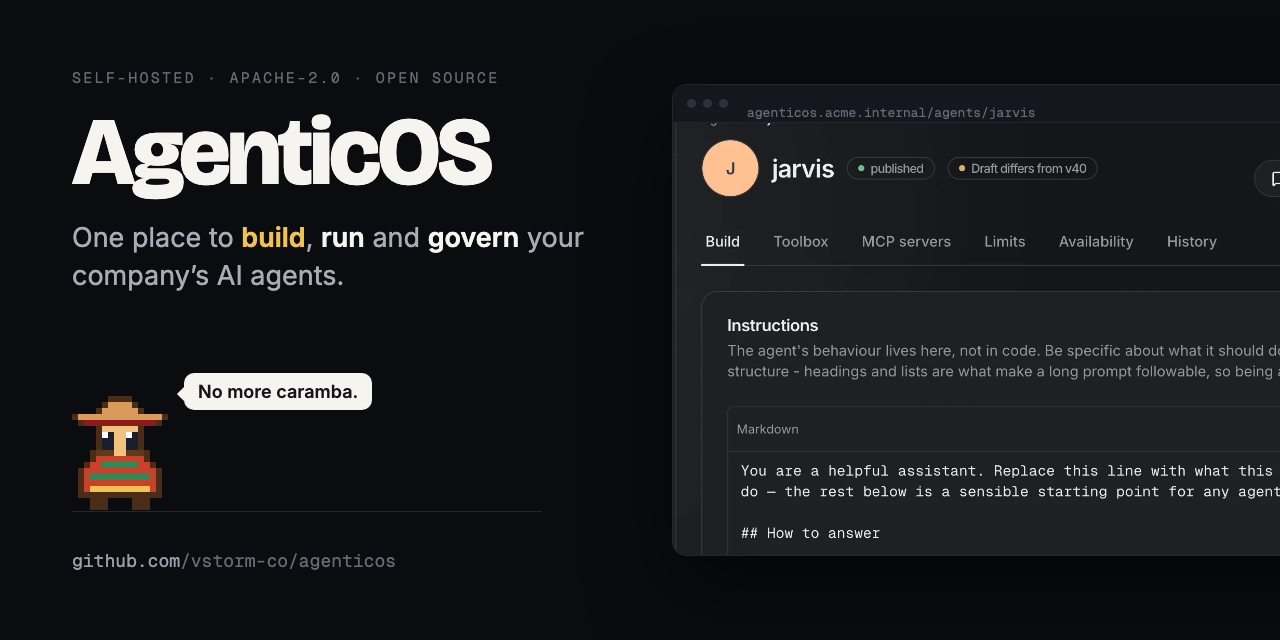
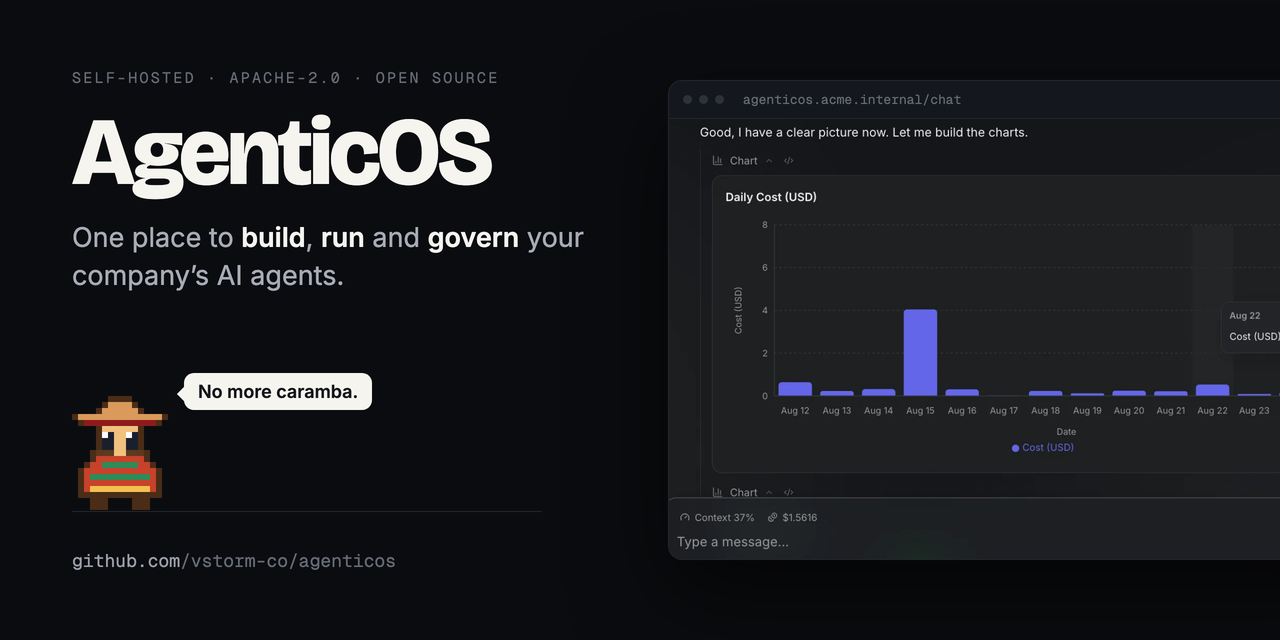
fix(docs): one screen on the social card, rendered at twice the size
Three screens cycling was two too many for something read in a second,
and the frames were captured at device ratio 1, where a 2906-pixel
screenshot scaled into half a card has no subpixels to average and the
app reads as grey noise.

One chat run now - the agent reads a file, runs Python and draws the
chart - captured at ratio 2 and resampled down, which is where the
legible text comes from. The crop starts on the sentence rather than
halfway through a tool step and ends under the composer, so the frame
has clean edges on both.

Still 309 KiB over 48 frames. No dither: error diffusion spreads a
changed pixel along its whole row, so the one region that moves rewrites
most of every frame - 1512 KiB against 309, for a difference a
256-colour palette is too wide to show.

Verified: the quantised frame compared side by side against the source
PNG; make lint and make docs-build green.

diff --git a/docs/assets/social-preview.html b/docs/assets/social-preview.html
@@ -8,15 +8,17 @@
   replaced was a finished PNG with nothing behind it: the mark changed, the card
   kept showing the old one, and no check noticed.
 
-  Three real screens, one per verb in the tagline - the builder for "build", a
-  chat run for "run", the spend ledger for "govern" - cut straight from
-  docs/assets/screens/dark/ rather than redrawn, so the card cannot show a
-  product this one is not. The verb lights up with the screen under it.
+  The screen is a real one, cut straight from docs/assets/screens/dark/ rather
+  than redrawn, so the card cannot show a product this one is not. One screen and
+  not three: a card people read in a second has time to say one thing.
 
-  Open it in a browser and it runs. Render it with:
+  Open it in a browser and Amigo paces. Render it with:
 
-    frames: load ?frame=N&of=48 for N in 0..47, screenshot 1280x640 at dpr 1
-    assemble: any GIF writer, 110ms a frame, one shared palette
+    frames: load ?frame=N&of=48 for N in 0..47, screenshot 1280x640 at dpr 2
+    downscale: each frame to 1280x640, Lanczos - which is where the legible text
+      comes from; rendering straight at dpr 1 gives the screenshot no subpixels
+      to average and the app reads as grey noise
+    assemble: any GIF writer, 110ms a frame, one palette shared by every frame
 
   Type comes from Google Fonts rather than the repository's woff2 files, because
   this is rendered once by hand and a relative path out of docs/ into frontend/
@@ -28,10 +30,8 @@
 <style>
   :root {
     --ink: #F5F4EF;
-    --muted: #8A909B;
     --dim: #656B76;
     --rule: #23262E;
-    --accent: #F2C14E;
     --travel: 156px;
     --scale: 6;
     --cycle: 5.28s;
@@ -76,27 +76,23 @@
     line-height: 1.38;
     color: #A7ACB6;
   }
-  /* The verb lights with the screen beside it, so the card says which third of
-     the sentence the picture is evidence for. */
-  .tagline b { color: var(--ink); font-weight: 600; transition: none; }
-  .v1 { animation: lit-1 var(--cycle) steps(1, end) infinite; }
-  .v2 { animation: lit-2 var(--cycle) steps(1, end) infinite; }
-  .v3 { animation: lit-3 var(--cycle) steps(1, end) infinite; }
+  .tagline b { color: var(--ink); font-weight: 600; }
 
-  /* The window. It runs off the right edge on purpose: a card that fits the
-     whole screen into a third of its width is showing a texture, not a product,
-     and cropping is what buys the scale back. */
+  /* The window runs off the right edge on purpose. A card that fits a whole
+     2906-pixel screen into half its width is showing a texture, not a product;
+     cropping past the sidebar is what buys the scale back, and the headings are
+     legible at the size that leaves. */
   .stage {
     position: absolute;
-    left: 672px;
-    top: 84px;
-    width: 720px;
-    height: 472px;
+    left: 668px;
+    top: 80px;
+    width: 700px;
+    height: 480px;
     border: 1px solid var(--rule);
     border-radius: 14px;
     background: #101318;
     overflow: hidden;
-    box-shadow: 0 32px 80px rgba(0, 0, 0, 0.55);
+    box-shadow: 0 34px 90px rgba(0, 0, 0, 0.6);
   }
   .chrome {
     height: 38px;
@@ -113,37 +109,14 @@
     font-family: "Geist Mono", ui-monospace, monospace;
     font-size: 13px;
     color: var(--dim);
-    position: relative;
   }
-  .route span { position: absolute; left: 0; top: 0; white-space: nowrap; opacity: 0; }
-  .route span:first-child { opacity: 1; }
 
   .viewport { position: relative; height: calc(100% - 38px); overflow: hidden; }
-  .shot {
-    position: absolute;
-    width: 1520px;
-    image-rendering: auto;
-    opacity: 0;
-  }
-  .shot:first-of-type { opacity: 1; }
-  /* One offset per screen: the sidebar is the least interesting 15% of every
-     one of them, so each is pulled left past it and down to its content. */
-  .s1 { left: -246px; top: -26px; }
-  .s2 { left: -465px; top: -372px; }
-  .s3 { left: -246px; top: -23px; }
+  /* One offset, measured against the source: the sidebar is the least
+     interesting 15% of the screen, and the run worth showing starts at the
+     sentence before the chart the agent drew. */
+  .shot { position: absolute; width: 1500px; left: -452px; top: -386px; }
 
-  .s1, .r1 { animation: show-1 var(--cycle) steps(1, end) infinite; }
-  .s2, .r2 { animation: show-2 var(--cycle) steps(1, end) infinite; }
-  .s3, .r3 { animation: show-3 var(--cycle) steps(1, end) infinite; }
-
-  @keyframes show-1 { 0%, 32.9% { opacity: 1; } 33%, 100% { opacity: 0; } }
-  @keyframes show-2 { 0%, 32.9% { opacity: 0; } 33%, 66.5% { opacity: 1; } 66.6%, 100% { opacity: 0; } }
-  @keyframes show-3 { 0%, 66.5% { opacity: 0; } 66.6%, 100% { opacity: 1; } }
-  @keyframes lit-1 { 0%, 32.9% { color: var(--accent); } 33%, 100% { color: var(--ink); } }
-  @keyframes lit-2 { 0%, 32.9% { color: var(--ink); } 33%, 66.5% { color: var(--accent); } 66.6%, 100% { color: var(--ink); } }
-  @keyframes lit-3 { 0%, 66.5% { color: var(--ink); } 66.6%, 100% { color: var(--accent); } }
-
-  /* The ledge Amigo walks on, and the line the repository sits under. */
   .ledge {
     position: absolute;
     left: 72px;
@@ -221,22 +194,16 @@
   <div class="copy">
     <p class="meta">Self-hosted &middot; Apache-2.0 &middot; Open source</p>
     <h1 class="wordmark">AgenticOS</h1>
-    <p class="tagline">One place to <b class="v1">build</b>, <b class="v2">run</b> and <b class="v3">govern</b> your company&rsquo;s AI agents.</p>
+    <p class="tagline">One place to <b>build</b>, <b>run</b> and <b>govern</b> your company&rsquo;s AI agents.</p>
   </div>
 
   <div class="stage">
     <div class="chrome">
       <span class="dot"></span><span class="dot"></span><span class="dot"></span>
-      <span class="route">
-        <span class="r1">agenticos.acme.internal/agents/jarvis</span>
-        <span class="r2">agenticos.acme.internal/chat</span>
-        <span class="r3">agenticos.acme.internal/activity</span>
-      </span>
+      <span class="route">agenticos.acme.internal/chat</span>
     </div>
     <div class="viewport">
-      <img class="shot s1" src="screens/dark/builder-build.webp" alt="">
-      <img class="shot s2" src="screens/dark/chat-sandbox-commands.webp" alt="">
-      <img class="shot s3" src="screens/dark/activity-spend.webp" alt="">
+      <img class="shot" src="screens/dark/chat-sandbox-commands.webp" alt="">
     </div>
   </div>
 
@@ -323,17 +290,11 @@
     const t = f < half ? f / half : (of - f) / half;    // 0 -> 1 -> 0
     const travel = parseFloat(getComputedStyle(document.documentElement).getPropertyValue("--travel"));
     const step = Math.floor(f / 2) % 2 === 0;           // one pose every two frames
-    const scene = Math.min(2, Math.floor((f / of) * 3)); // three screens, hard cut
     document.body.classList.add("frozen");
     document.getElementById("walker").style.transform = `translateX(${Math.round(t * travel)}px)`;
     document.getElementById("sprite").style.transform = step ? "translateY(0)" : "translateY(-6px)";
     document.getElementById("stepA").style.opacity = step ? "1" : "0";
     document.getElementById("stepB").style.opacity = step ? "0" : "1";
-    document.querySelectorAll(".shot").forEach((el, i) => (el.style.opacity = i === scene ? "1" : "0"));
-    document.querySelectorAll(".route span").forEach((el, i) => (el.style.opacity = i === scene ? "1" : "0"));
-    document.querySelectorAll(".tagline b").forEach((el, i) => {
-      el.style.color = i === scene ? "var(--accent)" : "var(--ink)";
-    });
   }
 </script>
 </body>

diff --git a/CHANGELOG.md b/CHANGELOG.md
@@ -74,12 +74,12 @@ Two things are versioned separately from this file and worth knowing about:
 - **The social preview shows the product, and now has a source.** The card it
   replaced was a finished PNG with nothing behind it: the mark changed, the card
   kept showing the retired one, and nothing noticed. It also showed nothing of
-  the thing it was advertising. `docs/assets/social-preview.html` is the card,
-  and it cycles three real screens cut straight from `docs/assets/screens/dark/`
-  - the builder, a chat run that drew a chart, the spend ledger - one for each
-  verb in the tagline, with the verb and the address bar changing under them.
-  Amigo paces the ledge beside it. It renders to a GIF for anywhere that
-  animates and a PNG for anywhere that does not.
+  the thing it was advertising. `docs/assets/social-preview.html` is the card
+  now, and the screen on it is a real one - a chat run where the agent read a
+  file, ran Python and drew the chart - cut straight from
+  `docs/assets/screens/dark/` rather than redrawn. Amigo paces the ledge beside
+  it. It renders to a GIF for anywhere that animates and a PNG for anywhere that
+  does not.
 - **Amigo is the product's mark, everywhere one was drawn.** Five different marks
   were in circulation: the pixel mascot in the README, a blue orbit in the docs
   header and hero, a lucide sparkle in the console sidebar, a lime dot in the
